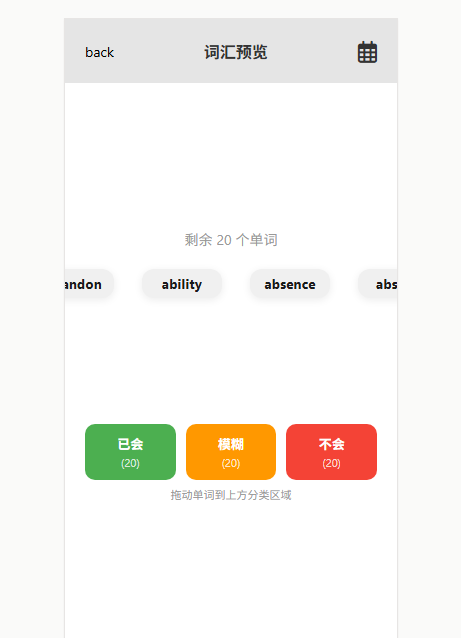
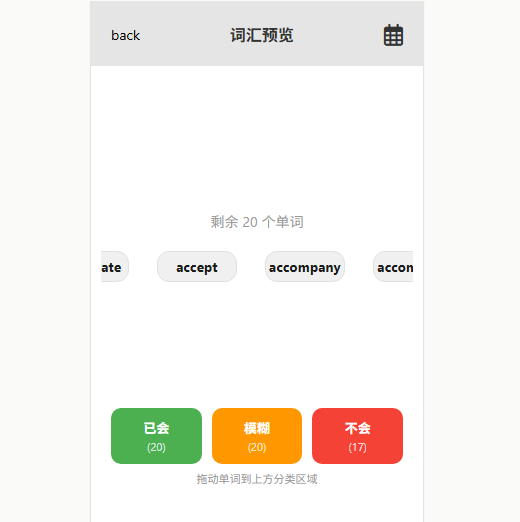
fix(learn): 修复词汇预览界面显示超过3个单词的问题

diff --git a/client/screens/learn/index.tsx b/client/screens/learn/index.tsx
@@ -250,7 +250,23 @@ export default function LearnPage() {
 				scrollX.setValue(0);
 			},
 			onPanResponderMove: (_, gestureState) => {
-				scrollX.setValue(gestureState.dx);
+				let dx = gestureState.dx;
+				const containerWidth = VIEWPORT_WIDTH;
+				const contentWidth = wordCountRef.current > 0
+					? wordCountRef.current * ITEM_WIDTH + (wordCountRef.current - 1) * ITEM_GAP + 16
+					: 16;
+				
+				if (contentWidth > containerWidth) {
+					const maxScroll = containerWidth - contentWidth;
+					const projectedX = currentScrollX.current + dx;
+					if (projectedX > 0) {
+						dx = dx * 0.3;
+					} else if (projectedX < maxScroll) {
+						dx = dx * 0.3;
+					}
+				}
+				
+				scrollX.setValue(dx);
 			},
 			onPanResponderRelease: (_, gestureState) => {
 				const containerWidth = VIEWPORT_WIDTH;
@@ -321,23 +337,26 @@ export default function LearnPage() {
 									<Text style={styles.remainingText}>剩余 {remainingCount} 个单词</Text>
 									{displayWords.length > 0 ? (
 										<View style={styles.wordViewport}>
-											<Animated.View
-												{...listPanResponder.panHandlers}
-												pointerEvents="auto"
-												style={[
-													styles.wordRow,
-													{ transform: [{ translateX: scrollX }] },
-												]}
-											>
-												{displayWords.map((word) => (
-													<DraggableWordCard
-														key={word.id}
-														word={word}
-														onDrop={handleDrop}
-														onPress={() => handleWordPress(word)}
-													/>
-												))}
-											</Animated.View>
+											<View style={styles.wordRowClipper}>
+												<Animated.View
+													{...listPanResponder.panHandlers}
+													pointerEvents="auto"
+													style={[
+														styles.wordRow,
+														{ transform: [{ translateX: scrollX }] },
+													]}
+												>
+													{displayWords.map((word) => (
+														<DraggableWordCard
+															key={word.id}
+															word={word}
+															onDrop={handleDrop}
+															onPress={() => handleWordPress(word)}
+														/>
+													))}
+												</Animated.View>
+											</View>
+											<View style={styles.rightMask} pointerEvents="none" />
 										</View>
 									) : (
 										<View style={styles.emptyContainer}>
@@ -422,11 +441,17 @@ const styles = StyleSheet.create({
 		marginBottom: 20,
 	},
 	wordViewport: {
-		width: 312,
+		width: 320,
 		overflow: 'hidden',
 		alignSelf: 'center',
-		borderRadius: 1,
-		borderColor: 'transparent',
+		position: 'relative',
+		height: 50,
+	},
+	wordRowClipper: {
+		width: 320,
+		overflow: 'hidden',
+		position: 'relative',
+		height: 50,
 	},
 	wordRow: {
 		flexDirection: 'row',
@@ -464,6 +489,14 @@ const styles = StyleSheet.create({
 		color: '#1A1A1A',
 		fontWeight: '700',
 		letterSpacing: 0.3,
+	},
+	rightMask: {
+		position: 'absolute',
+		right: -100,
+		top: 0,
+		bottom: 0,
+		width: 100,
+		backgroundColor: '#FFFFFF',
 	},
 	categorySection: {
 		paddingVertical: 10,
